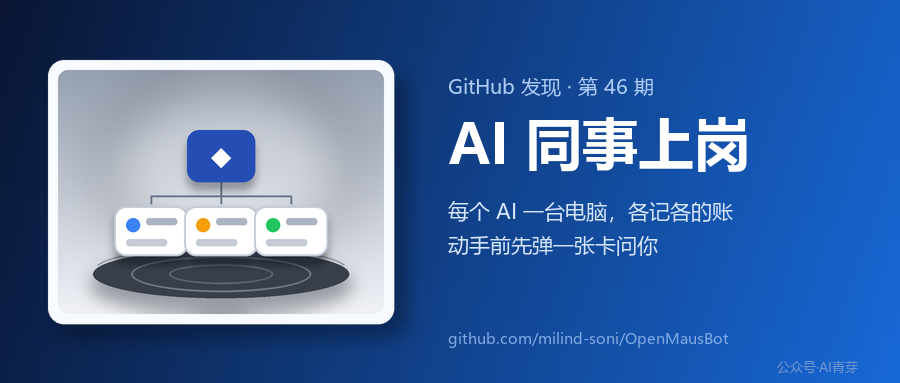
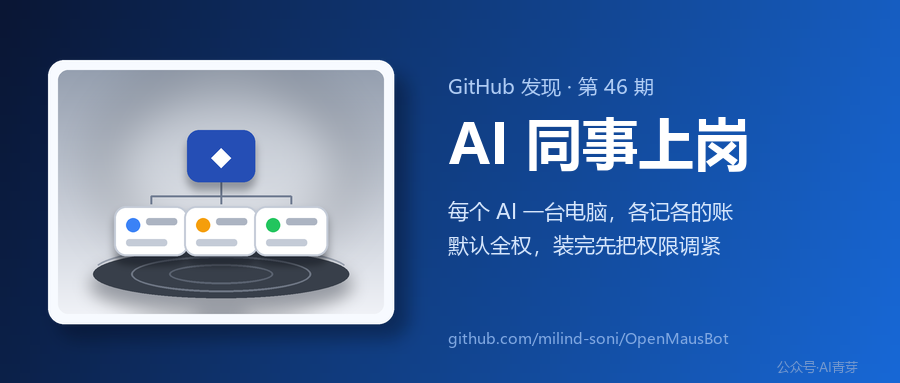
update: openmausbot 封面改文案(cover-v2) + 预审改稿

Changed region(s): [[0.4978, 0.6031, 0.8089, 0.6893]]

diff --git a/previews/20261114-openmausbot.html b/previews/20261114-openmausbot.html
@@ -3,7 +3,7 @@
 <head>
 <meta charset="utf-8">
 <meta name="viewport" content="width=device-width, initial-scale=1">
-<title>AI 同事上岗：2.2 万星的桌面应用，每个一台电脑，动手前先问你一句【附上手小抄】 · 预览页</title>
+<title>AI 同事上岗：2.2 万星的桌面应用，每个一台电脑，默认状态下能直接动你的文件【附上手小抄】 · 预览页</title>
 <style>
   /* 仅本地预览用；复制进公众号的是 #article 的内联样式（已全部内联） */
   body { font-family: system-ui, -apple-system, "PingFang SC", "Microsoft YaHei", sans-serif; }
@@ -35,9 +35,9 @@
     5. 图地址用 jsdelivr：https://cdn.jsdelivr.net/gh/zhaoyanan-pixe/wechat-assets@main/...
   ============================================================ -->
 <div id="article" style="max-width:700px;margin:0 auto;background:#ffffff;padding:36px 40px;">
-  <img src="https://cdn.jsdelivr.net/gh/zhaoyanan-pixe/wechat-assets@main/articles/20261114-openmausbot/cover.png" alt="" style="width:100%;border-radius:6px;display:block;margin:0 0 24px;">
-  <p style="margin:0 0 24px;font-size:17px;color:rgba(0,0,0,0.9);line-height:31px;">左边一列联系人，跟微信几乎一样。点开，聊天框里不是人，是一个正在你电脑上跑命令的 AI。活干到一半它会停下来，把一张卡推到你面前：这条命令，允许吗？</p>
-  <p style="margin:0 0 24px;font-size:17px;color:rgba(0,0,0,0.9);line-height:31px;">这是 <strong style="font-weight:500;">OpenMausBot</strong>。今早八点我在 GitHub 上查，2.2 万星（22,176 颗），三个月前才建的库，Apache-2.0 协议，Windows、Mac、Ubuntu 都有安装包。</p>
+  <img src="https://cdn.jsdelivr.net/gh/zhaoyanan-pixe/wechat-assets@main/articles/20261114-openmausbot/cover-v2.png" alt="" style="width:100%;border-radius:6px;display:block;margin:0 0 24px;">
+  <p style="margin:0 0 24px;font-size:17px;color:rgba(0,0,0,0.9);line-height:31px;">左边一列联系人，跟微信长得几乎一样。点开，聊天框里不是人，是一个真的在你电脑上跑命令的 AI 同事。它能替你改文件、发邮件、装软件。代价是：默认状态下，它动手之前不会问你。</p>
+  <p style="margin:0 0 24px;font-size:17px;color:rgba(0,0,0,0.9);line-height:31px;">这是 <strong style="font-weight:500;">OpenMausBot</strong>。今早八点我在 GitHub 上查，2.2 万星（22,176 颗），三个月前才建的库，Apache-2.0 协议，Windows、Mac、Ubuntu 都有安装包（Ubuntu 还标着 beta）。</p>
   <p style="margin:0 0 24px;font-size:17px;color:rgba(0,0,0,0.9);line-height:31px;">涨得也快。11 月 9 日我自己的统计里它是 1.77 万星，五天过去，2.2 万。</p>
   <img src="https://cdn.jsdelivr.net/gh/zhaoyanan-pixe/wechat-assets@main/articles/20261114-openmausbot/fig1-hero.png" alt="" style="width:100%;border-radius:6px;display:block;margin:17px 0 8px;">
   <p style="margin:0 0 24px;font-size:14px;color:rgba(0,0,0,0.3);line-height:25px;text-align:center;">官方截图：左边一列联系人，每一个都是真的 AI（来源：仓库 docs/screenshots/hero.png）</p>
@@ -45,34 +45,37 @@
   <p style="margin:0 0 24px;font-size:17px;color:rgba(0,0,0,0.9);line-height:31px;">我们现在用 AI，基本是一张嘴对一张脸：一个对话框，什么活都往里塞。聊久了，三个毛病一定冒出来。它记不清哪件事归哪个项目；它拿着你的全部权限，动什么都得你盯着；你一去开会，它就停在那儿等你回话。</p>
   <p style="margin:0 0 24px;font-size:17px;color:rgba(0,0,0,0.9);line-height:31px;">分角色就顺手得多。它的做法是：每个 bot 是一个联系人，可以单独选模型（背后是本机的 Claude、Codex、Grok 命令行，用你已有的订阅登录），单独写人设，单独分一台电脑，单独决定能碰哪些应用。左边那一列，就是你的班底名单。</p>
   <p style="margin:0 0 24px;font-size:17px;color:rgba(0,0,0,0.9);line-height:31px;">还有个细节挺讲究：工作、个人、每个项目各开一个频道，各记各的账、各有一套成员和规矩，不用为每个项目复制一份 bot。</p>
-  <p style="margin:0 0 12px;font-size:20px;font-weight:500;color:#2B77BF;line-height:36px;text-align:center;">它动手之前，会先递一张卡</p>
+  <p style="margin:0 0 12px;font-size:20px;font-weight:500;color:#2B77BF;line-height:36px;text-align:center;">权限档位：默认是全权，得自己改</p>
   <img src="https://cdn.jsdelivr.net/gh/zhaoyanan-pixe/wechat-assets@main/articles/20261114-openmausbot/fig2-approval.png" alt="" style="width:100%;border-radius:6px;display:block;margin:17px 0 8px;">
-  <p style="margin:0 0 24px;font-size:14px;color:rgba(0,0,0,0.3);line-height:25px;text-align:center;">官方截图：执行命令、改文件之前，先弹一张允许 / 拒绝的卡（来源：仓库 docs/screenshots/approval-card.png）</p>
-  <p style="margin:0 0 24px;font-size:17px;color:rgba(0,0,0,0.9);line-height:31px;">这是整个项目里我最服的一点。跑命令、改文件、拿不准的问题，全都变成聊天里的一张卡：允许、拒绝，或者直接在框里回一句。云端电脑和本机电脑走同一套闸门。</p>
-  <p style="margin:0 0 24px;font-size:17px;color:rgba(0,0,0,0.9);line-height:31px;">为什么值得单拎出来说？因为「AI 替你动手」的风险，从来不在它会不会干，而在你清不清楚自己批准了什么。把每次动手变成一次点击，是慢一点，但你心里有数。</p>
+  <p style="margin:0 0 24px;font-size:14px;color:rgba(0,0,0,0.3);line-height:25px;text-align:center;">官方截图：允许 / 拒绝的卡；这张卡出现在你把权限调到「询问」之后（来源：仓库 docs/screenshots/approval-card.png）</p>
+  <p style="margin:0 0 24px;font-size:17px;color:rgba(0,0,0,0.9);line-height:31px;">这是整个项目里我最想夸、又最想提醒的一件事：权限。它把每个引擎自己的权限档位搬到了界面上，一共五档：询问、自动改文件、自动、全权、自定义。执行命令、改文件、拿不准的问题，会变成聊天里的一张卡，允许、拒绝，或者直接在框里回一句。</p>
+  <p style="margin:0 0 24px;font-size:17px;color:rgba(0,0,0,0.9);line-height:31px;">但注意，这张卡不是默认就有的。仓库自己的威胁模型写得很直白：<strong style="font-weight:500;">默认档位是全权</strong>，OpenMausBot 不自带审批弹窗，审批由各个引擎原生的权限系统执行。</p>
+  <p style="margin:0 0 24px;font-size:17px;color:rgba(0,0,0,0.9);line-height:31px;">换句话说，装完不动设置，它在你电脑上跑命令、改文件，不会先问你。这不是漏洞，是他们写明的产品决定：各个引擎跑在各自最宽松的模式下。所以我对这东西的第一条建议不是「装哪一版」，而是：<strong style="font-weight:500;">装完先去设置里，把档位调到「询问」</strong>。</p>
   <p style="margin:0 0 12px;font-size:20px;font-weight:500;color:#2B77BF;line-height:36px;text-align:center;">每个 AI 一台电脑，你可以看着它干</p>
   <img src="https://cdn.jsdelivr.net/gh/zhaoyanan-pixe/wechat-assets@main/articles/20261114-openmausbot/fig3-computer.png" alt="" style="width:100%;border-radius:6px;display:block;margin:17px 0 8px;">
   <p style="margin:0 0 24px;font-size:14px;color:rgba(0,0,0,0.3);line-height:25px;text-align:center;">官方截图：电脑面板，看实时画面、随时接管（来源：仓库 docs/screenshots/computer-panel.png）</p>
-  <p style="margin:0 0 24px;font-size:17px;color:rgba(0,0,0,0.9);line-height:31px;">点开「电脑」面板，这个 bot 自己的桌面就在那儿跑：能看实时画面，能接管进去自己操作，也可以让它直接用你这台机器（Windows 支持，要你在设置里明确同意）。</p>
+  <p style="margin:0 0 24px;font-size:17px;color:rgba(0,0,0,0.9);line-height:31px;">点开「电脑」面板，这个 bot 自己的云端桌面就在那儿跑：能看实时画面，能接管进去自己操作；也可以让它直接用你这台机器（Windows 支持，要你在设置里明确同意）。按官方能力表，Windows 下的本机控制能用，但那个「预览画面」只有 Mac 支持，Windows 没有。</p>
   <img src="https://cdn.jsdelivr.net/gh/zhaoyanan-pixe/wechat-assets@main/articles/20261114-openmausbot/fig4-marketplace.png" alt="" style="width:100%;border-radius:6px;display:block;margin:17px 0 8px;">
   <p style="margin:0 0 24px;font-size:14px;color:rgba(0,0,0,0.3);line-height:25px;text-align:center;">官方截图：连接应用市场，Gmail、Slack、GitHub、Notion 都在里面（来源：仓库 docs/screenshots/marketplace.png）</p>
   <p style="margin:0 0 24px;font-size:17px;color:rgba(0,0,0,0.9);line-height:31px;">干活的手也不止一双。通过 Composio 授权一次，Gmail、Slack、GitHub、Notion 等 500 多个应用都能当工具用；还能挂触发器，比如跟它说「每个工作日早上九点，把收件箱总结一份发我」，它自己把卡片建好，随时能暂停、撤销。</p>
-  <p style="margin:0 0 24px;font-size:17px;color:rgba(0,0,0,0.9);line-height:31px;">它甚至能说话：接上 ElevenLabs、Fish Audio 或 xAI 的声音，按住通话键就能对话，一边干一边汇报，要你批准的时候直接念出来。</p>
+  <p style="margin:0 0 24px;font-size:17px;color:rgba(0,0,0,0.9);line-height:31px;">它甚至能说话：接上 ElevenLabs、Fish Audio 或 xAI 的声音，点通话键就能对话，一边干一边汇报，要你批准的时候直接念出来。</p>
   <p style="margin:0 0 12px;font-size:20px;font-weight:500;color:#2B77BF;line-height:36px;text-align:center;">三盆冷水</p>
   <p style="margin:0 0 24px;font-size:17px;color:rgba(0,0,0,0.9);line-height:31px;">说到这儿，得泼三盆。</p>
-  <p style="margin:0 0 24px;font-size:17px;color:rgba(0,0,0,0.9);line-height:31px;">第一盆，门槛在第一屏。它自己不产生模型，得你电脑上先装好 claude、codex 或 grok 的命令行并且登录。国内读者多半卡在这：订阅、支付、网络，三道关。所以这篇我写的是它怎么设计的，不是「你今晚就能用上」。</p>
+  <p style="margin:0 0 24px;font-size:17px;color:rgba(0,0,0,0.9);line-height:31px;">第一盆，门槛在第一屏。它自己不产生模型，得你电脑上先装好 claude、codex 或 grok 的命令行并且登录。三道关：订阅、支付、网络。国内读者多半卡在这。所以这篇我写的是它怎么设计的，不是「你今晚就能用上」。</p>
   <p style="margin:0 0 24px;font-size:17px;color:rgba(0,0,0,0.9);line-height:31px;">第二盆，云电脑和连接应用都是第三方服务。云电脑由 Boat 提供，试用之后要收费；Composio 也要自己的账号。软件本身免费开源，用起来不一定。</p>
-  <p style="margin:0 0 24px;font-size:17px;color:rgba(0,0,0,0.9);line-height:31px;">第三盆，它跑得太快，快到不像个稳的东西。8 月建的库，到今天 112 个发布版本；11 月 9 日到 13 日，五天发了六个版本。今早查，713 个 issue 还开着，另有 331 个 PR 在排队。爱追新的人喜欢这个节奏，怕麻烦的人最好等它稳一稳。</p>
+  <p style="margin:0 0 24px;font-size:17px;color:rgba(0,0,0,0.9);line-height:31px;">第三盆，它跑得太快。8 月建的库，到今天 112 个发布版本；11 月 9 日到 13 日，五天发了六个版本。</p>
+  <p style="margin:0 0 24px;font-size:17px;color:rgba(0,0,0,0.9);line-height:31px;">今早查，713 条等着处理的反馈（issue）还开着，另有 331 份排队等合并的代码改动（PR）。爱追新的人喜欢这个节奏，怕麻烦的人最好等它稳一稳。</p>
   <img src="https://cdn.jsdelivr.net/gh/zhaoyanan-pixe/wechat-assets@main/articles/20261114-openmausbot/fig5-numbers.png" alt="" style="width:100%;border-radius:6px;display:block;margin:17px 0 8px;">
   <p style="margin:0 0 24px;font-size:14px;color:rgba(0,0,0,0.3);line-height:25px;text-align:center;">据 GitHub API 与 Releases 页面自制，数字均为 2026-11-14 上午实取</p>
   <p style="margin:0 0 24px;font-size:17px;color:rgba(0,0,0,0.9);line-height:31px;">还有个小的：Windows 安装包没做代码签名，安装时系统会弹「未知发布者」，要点「更多信息 → 仍要运行」才装得上。</p>
   <p style="margin:0 0 12px;font-size:20px;font-weight:500;color:#2B77BF;line-height:36px;text-align:center;">为什么还值得看一眼</p>
   <p style="margin:0 0 24px;font-size:17px;color:rgba(0,0,0,0.9);line-height:31px;">作者在 README 里写，2026 年有七周里接连出了四款同类产品（Grok Bot、Meta Muse、OpenAI dots、Cue 这些），共同点是模型、电脑、数据都留在厂商那边；他想做一个开源的版本，跑在你自己的机器上。</p>
   <p style="margin:0 0 24px;font-size:17px;color:rgba(0,0,0,0.9);line-height:31px;">这句话我听进去了。今年涨得快的项目，很多在回答同一个问题：AI 从「会聊天」变成「会干活」以后，怎么给它排座位、划权限、留证据。这个项目给的答案很土，也很实在：做成通讯录，一个一个点。</p>
+  <p style="margin:0 0 24px;font-size:17px;color:rgba(0,0,0,0.9);line-height:31px;">还有一点我挺意外：它把「默认全权」明明白白写进了仓库的威胁模型，还专门注明「这不是漏洞，是我们的产品决定」。这种坦白在开源项目里不多见。夸也好骂也好，至少它没把话藏在设置页最深处。</p>
   <p style="margin:0 0 24px;font-size:17px;color:rgba(0,0,0,0.9);line-height:31px;">用不用得上另说，这套形状值得记一下。哪天你手上真有三个以上的 AI 在干活，你会需要一张名单。</p>
-  <p style="margin:0 0 24px;font-size:17px;color:rgba(0,0,0,0.9);background-color:#E8F1FA;line-height:31px;padding:14px 18px;"><strong style="font-weight:500;color:#22619F;">🧰 上手小抄</strong><br>① 装：先在电脑上装好 claude 或 codex 命令行并登录；再下 GitHub Releases 里的 OpenMausBot-setup.exe（约 270MB，没签名，装时点「更多信息 → 仍要运行」）<br>② 先试：只建一个 bot、只给它一件事，看它弹出的第一张审批卡长什么样<br>③ 提醒：云电脑要另开 Boat 账号、试用后收费；连接应用走 Composio，也要自己的账号</p>
-  <p style="margin:0 0 24px;font-size:17px;color:#2B77BF;line-height:31px;">项目地址：github.com/milind-soni/OpenMausBot（Apache-2.0，官网 mausbot.com）</p>
-  <p style="margin:0 0 24px;font-size:17px;color:#2B77BF;line-height:31px;">数据与素材来源：GitHub API 与 Releases 页面 2026-11-14 08:10–08:15 实取（22,176 星 / 3,076 fork，仓库建于 2026-08-11 UTC，最新版 v0.1.155）；「11-09 时 1.77 万星」为本号 11-09 周榜记录（自己扫 GitHub 全站统计，非 GitHub 官方榜单）；713 个 issue 与 331 个 PR 分属两次搜索接口实取。功能描述、「七周里四款同类产品」「Grok Bot 等产品的开源替代」均引自仓库 README 与作者博客，属作者说法。内文 5 张图：4 张为仓库官方截图（路径已逐张注明），1 张数字卡据上述接口数据自制。</p>
+  <p style="margin:0 0 24px;font-size:17px;color:rgba(0,0,0,0.9);background-color:#E8F1FA;line-height:31px;padding:14px 18px;"><strong style="font-weight:500;color:#22619F;">🧰 上手小抄</strong><br>① 装：先在电脑上装好 claude 或 codex 命令行并登录；再下 GitHub Releases 里的 OpenMausBot-setup.exe（近 270MB，没签名，装时点「更多信息 → 仍要运行」）<br>② 第一件事：进设置把权限档位从默认的「全权」调到「询问」，再建 bot；建议只建一个、只给一件事<br>③ 提醒：云电脑要另开 Boat 账号、试用后收费；连接应用走 Composio，也要自己的账号</p>
+  <p style="margin:0 0 24px;font-size:17px;color:#2B77BF;line-height:31px;">项目地址：github.com/milind-soni/OpenMausBot（仓库主体 Apache-2.0，enterprise/ 目录另用许可；官网 mausbot.com）</p>
+  <p style="margin:0 0 24px;font-size:17px;color:#2B77BF;line-height:31px;">数据与素材来源：GitHub API 与 Releases 页面 2026-11-14 08:10–08:15 实取（22,176 星 / 3,076 fork，仓库建于 2026-08-11 UTC，最新版 v0.1.155）；「11-09 时 1.77 万星」为本号 11-09 周榜记录（自己扫 GitHub 全站统计，非 GitHub 官方榜单）；713 条反馈与 331 份 PR 分属两次搜索接口实取。「默认全权、平台不自带审批弹窗」出自仓库 shared/approval-mode.ts（DEFAULT_APPROVAL_MODE = full）与 .oss-scanner/threat_model.md 原文。功能描述、「七周里四款同类产品」「Grok Bot 等产品的开源替代」均引自仓库 README 与作者博客，属作者说法。内文 5 张图：4 张为仓库官方截图（路径已逐张注明），1 张数字卡据上述接口数据自制。</p>
   <p style="margin:0 0 24px;font-size:17px;color:#2B77BF;line-height:31px;">你现在的 AI 是一个对话框，还是几个？评论区聊聊。</p>
   <p style="margin:0;font-size:17px;color:#2B77BF;line-height:31px;">每天挑一个值得看的开源项目，讲清楚它能干什么、坑在哪。</p>
   <p style="margin:24px 0 0;font-size:17px;color:#2B77BF;line-height:31px;">我是青芽，每天帮你把 GitHub 和外网的好东西淘回来。我们下期见～</p>
